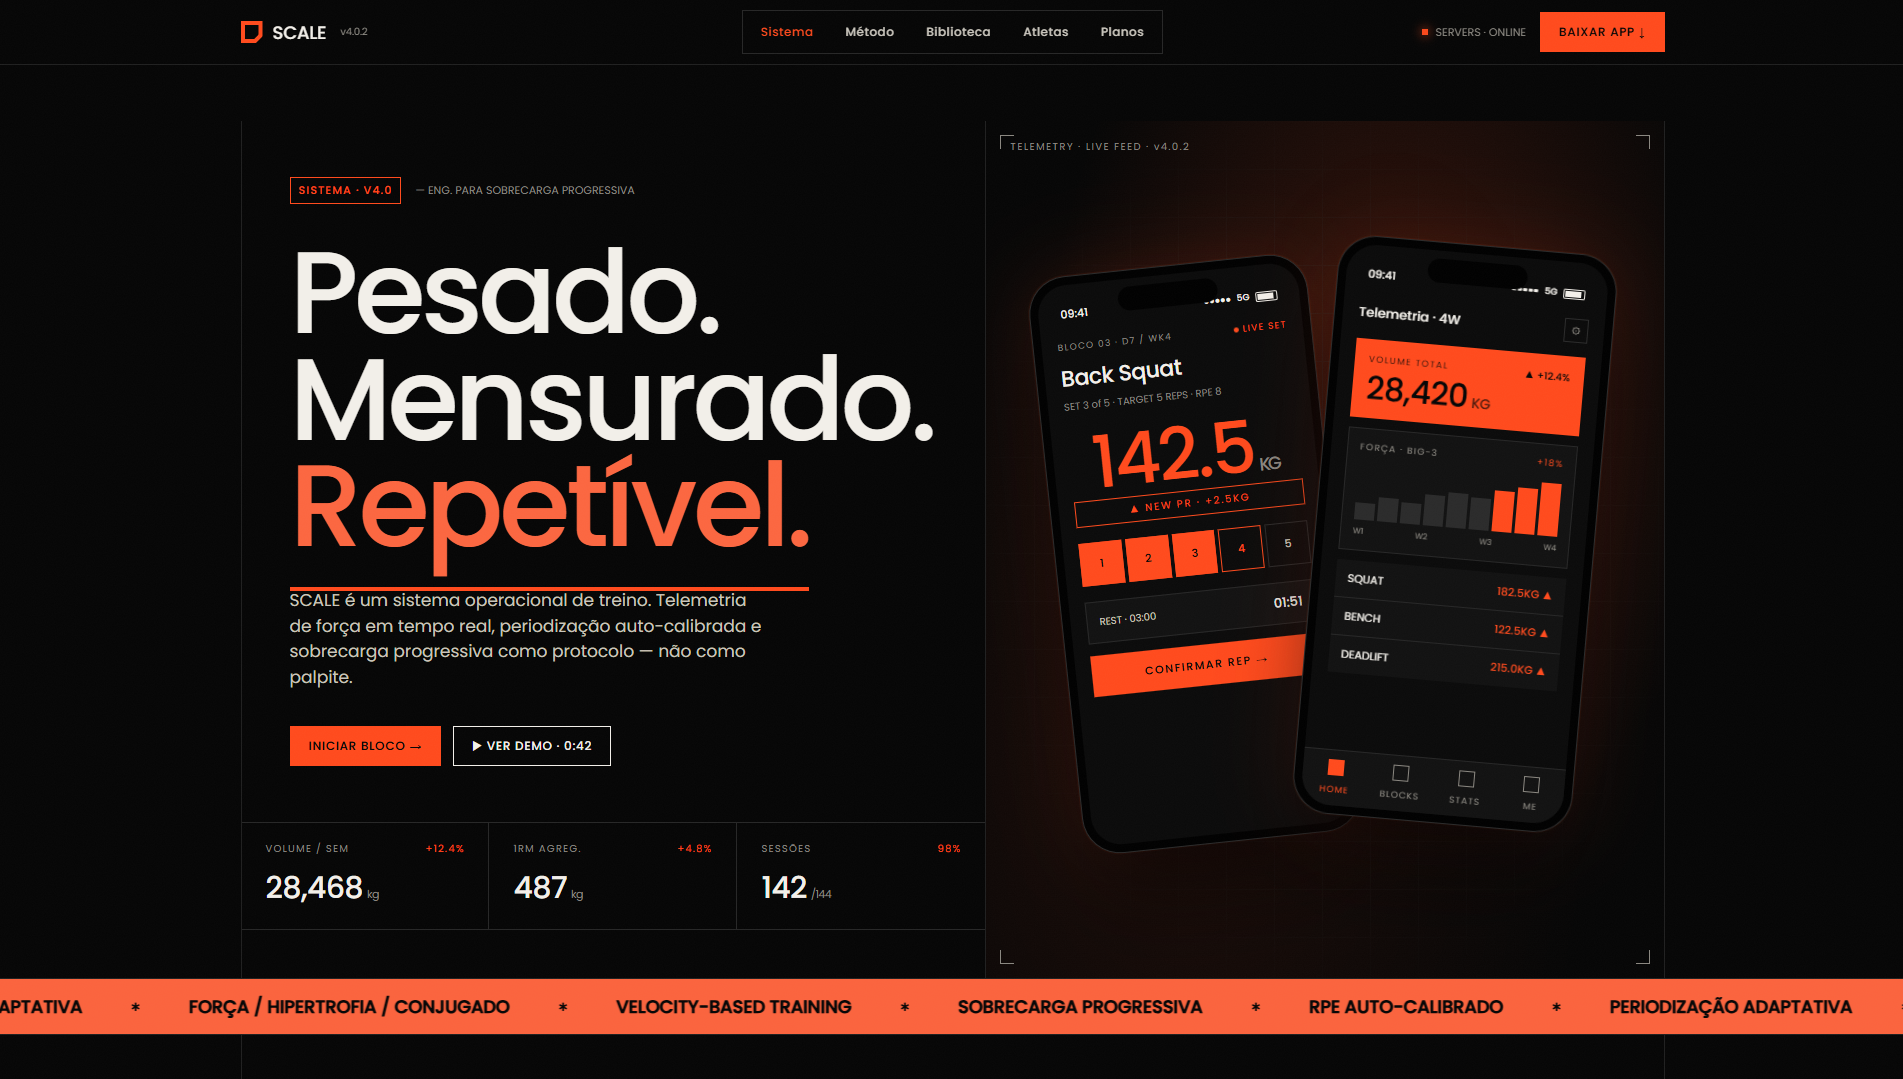
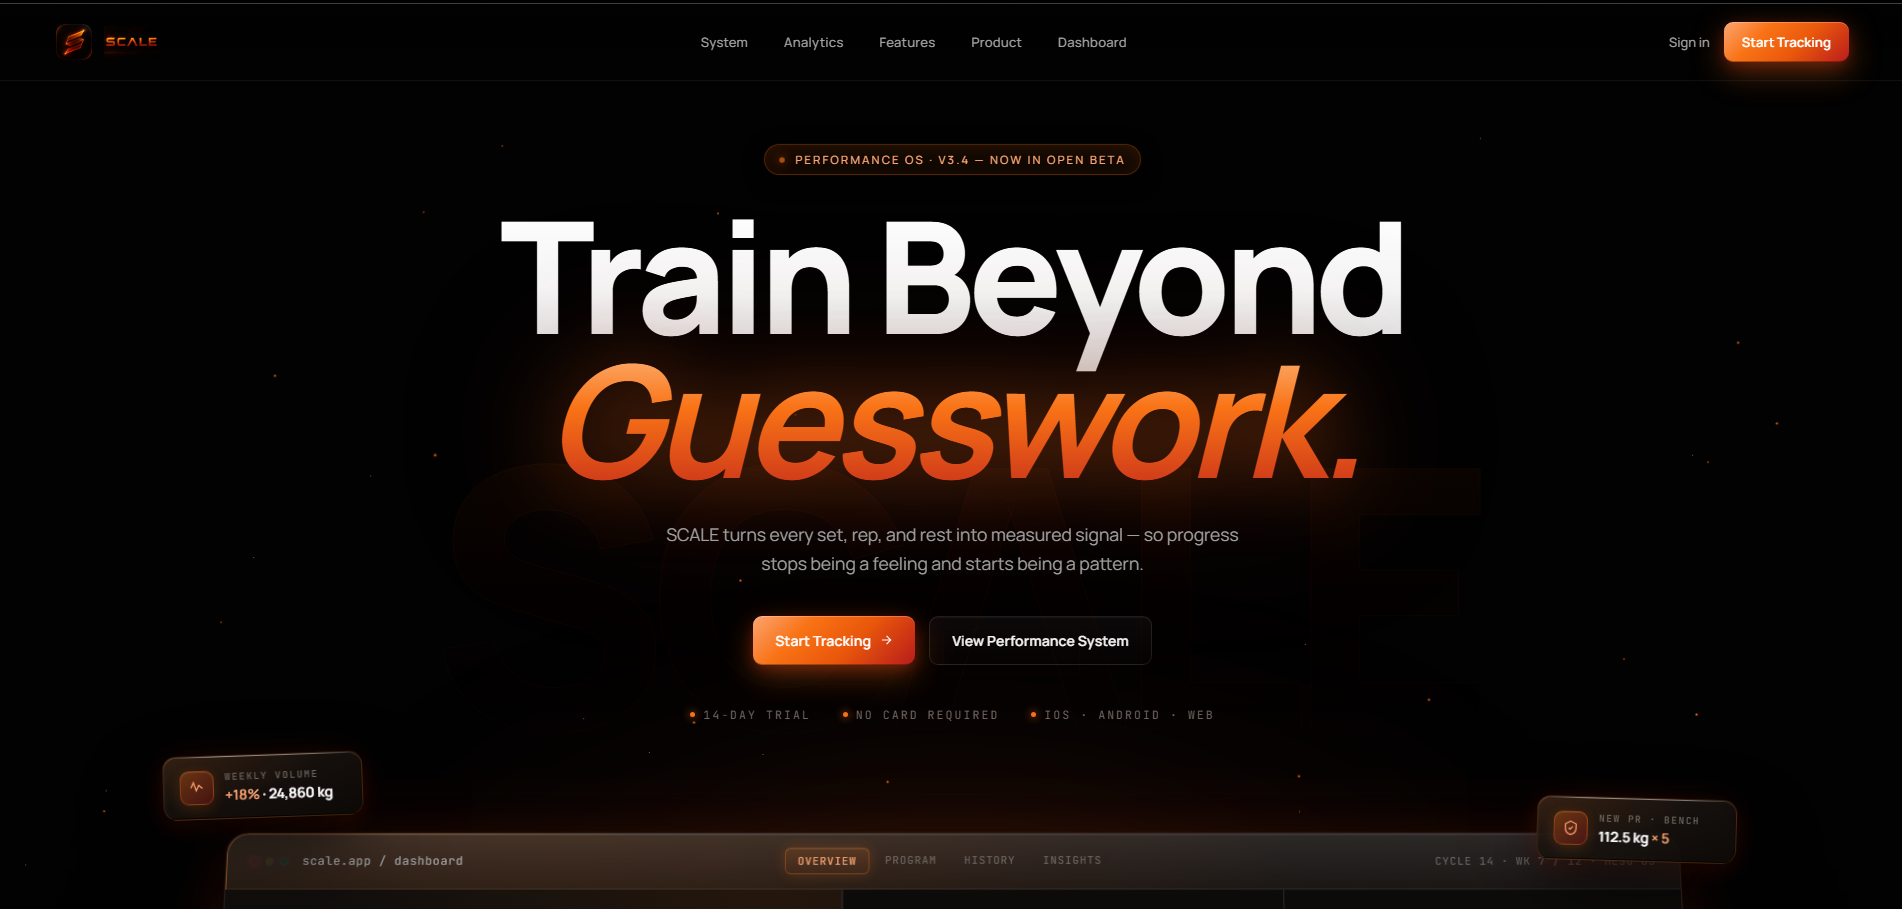
update

diff --git a/Scale Landing.html b/Scale Landing.html
@@ -3,6 +3,7 @@
 <head>
 <meta charset="UTF-8" />
 <meta name="viewport" content="width=device-width, initial-scale=1.0"/>
+<link rel="icon" type="image/jpeg" href="public/SCALE_LOGO.jpeg" />
 <title>SCALE — Train Beyond Guesswork.</title>
 <link rel="preconnect" href="https://fonts.googleapis.com">
 <link rel="preconnect" href="https://fonts.gstatic.com" crossorigin>
@@ -994,8 +995,8 @@
 
 <nav>
   <div class="brand">
-    <div class="brand-mark"></div>
-    SCALE
+    <img src="public/SCALE_LOGO.jpeg" alt="SCALE icon" style="width:36px;height:36px;border-radius:8px;object-fit:cover;" />
+    <img src="public/SCALE_LOGOTYPE.jpeg" alt="SCALE" style="height:32px;object-fit:contain;" />
   </div>
   <div class="nav-links">
     <a href="#system">System</a>
@@ -1677,7 +1678,7 @@
 </section>
 
 <footer>
-  <div class="brand"><div class="brand-mark"></div>SCALE · PERFORMANCE OS</div>
+  <div class="brand"><img src="public/SCALE_LOGO.jpeg" alt="SCALE icon" style="width:36px;height:36px;border-radius:8px;object-fit:cover;" /><img src="public/SCALE_LOGOTYPE.jpeg" alt="SCALE" style="height:32px;object-fit:contain;" /><span style="color:var(--t2);font-size:11px;letter-spacing:0.15em"> · PERFORMANCE OS</span></div>
   <div class="links">
     <a href="#">Privacy</a>
     <a href="#">Terms</a>